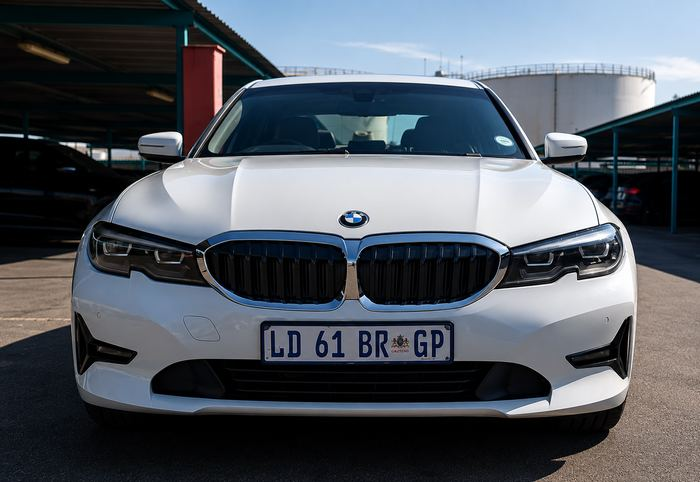
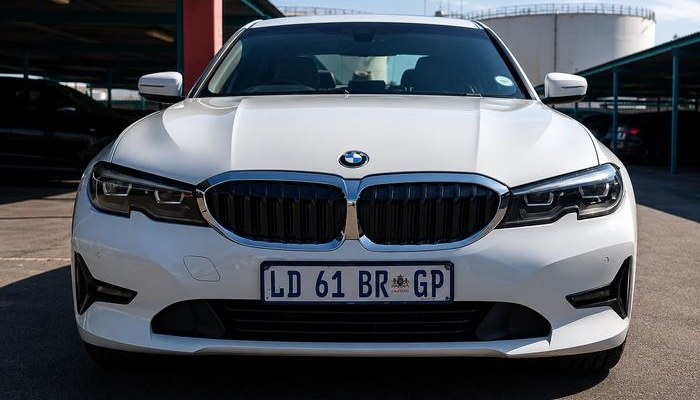
Tighten fleet photo crops, fix gallery content, swap Our Story image
Fleet thumbnails: re-cropped all four grid card photos so vehicles
fill the frame consistently (BMW 320d especially was showing more
driveway/mountain than car), bumped card photo height 180px->220px.
Also replaced an emoji CTA icon on this page that was missed during
the earlier site-wide icon cleanup.

Gallery content: removed BMW 320d's first image (kept the second,
per Adrian, despite a visible third-party watermark on it) and BMW
3 Series M Sport's third image. Grid thumbnail logic now derives
from each vehicle's actual first gallery image instead of hardcoded
filenames, so this can't silently break again if images are
reordered. "Saloon" -> "Sedan" in the BMW 320d/320i taglines,
homepage and fleet gallery both.

Homepage Our Story section now uses a real fleet photo (BMW 320i,
rear three-quarter shot) instead of the old generic photo.

diff --git a/intercoutra-site-v2/index.html b/intercoutra-site-v2/index.html
@@ -315,7 +315,7 @@
           <div><div class="num">3</div><div class="lbl">Major airports for transfers</div></div>
         </div>
       </div>
-      <div class="photo" style="background-image:url('images/about-photo-2.jpeg');height:340px;border-radius:10px;background-size:cover;background-position:center;"></div>
+      <div class="photo" style="background-image:url('images/fleet/bmw-320i-4.jpg');height:340px;border-radius:10px;background-size:cover;background-position:center;"></div>
     </div>
   </div>
 </section>
@@ -327,7 +327,7 @@
       <a href="fleet.html" class="link" style="color:var(--red);font-weight:600;font-size:14px;">View our fleet →</a>
     </div>
     <div class="fleet-grid">
-      <a href="fleet.html" class="fleet-card"><div class="photo" style="background-image:url('images/fleet/thumbs/bmw-320d-1.jpg');"></div><div class="body"><h3>BMW 320d</h3><p>3 Series Saloon · Executive Sedan</p></div></a>
+      <a href="fleet.html" class="fleet-card"><div class="photo" style="background-image:url('images/fleet/thumbs/bmw-320d-2.jpg');"></div><div class="body"><h3>BMW 320d</h3><p>3 Series Sedan · Executive Sedan</p></div></a>
       <a href="fleet.html" class="fleet-card"><div class="photo" style="background-image:url('images/fleet/thumbs/vito-1.jpg');"></div><div class="body"><h3>Mercedes-Benz Vito Tourer</h3><p>Premium Passenger Shuttle</p></div></a>
       <a href="fleet.html" class="fleet-card"><div class="photo" style="background-image:url('images/fleet/thumbs/bmw-msport-1.jpg');"></div><div class="body"><h3>BMW 3 Series M Sport</h3><p>Executive Sedan · M Sport Package</p></div></a>
     </div>

diff --git a/intercoutra-site-v2/js/fleet-gallery.js b/intercoutra-site-v2/js/fleet-gallery.js
@@ -7,9 +7,8 @@ const FLEET_VEHICLES = [
   {
     id: "bmw-320d",
     name: "BMW 320d",
-    tagline: "3 Series Saloon · Executive Sedan",
+    tagline: "3 Series Sedan · Executive Sedan",
     images: [
-      "images/fleet/bmw-320d-1.jpg",
       "images/fleet/bmw-320d-2.jpg",
     ],
   },
@@ -29,14 +28,13 @@ const FLEET_VEHICLES = [
     images: [
       "images/fleet/bmw-msport-1.jpg",
       "images/fleet/bmw-msport-2.jpg",
-      "images/fleet/bmw-msport-3.jpg",
       "images/fleet/bmw-msport-4.jpg",
     ],
   },
   {
     id: "bmw-320i",
     name: "BMW 320i",
-    tagline: "3 Series Saloon · Executive Sedan",
+    tagline: "3 Series Sedan · Executive Sedan",
     images: [
       "images/fleet/bmw-320i-1.jpg",
       "images/fleet/bmw-320i-2.jpg",
@@ -58,7 +56,7 @@ function renderFleetGalleryGrid() {
 
   grid.innerHTML = FLEET_VEHICLES.map((v) => `
     <div class="fleet-card gallery-card" onclick="openLightbox('${v.id}', 0)">
-      <div class="photo" style="background-image:url('images/fleet/thumbs/${v.id === 'bmw-320d' ? 'bmw-320d-1' : v.id === 'vito' ? 'vito-1' : v.id === 'bmw-msport' ? 'bmw-msport-1' : 'bmw-320i-1'}.jpg');">
+      <div class="photo" style="background-image:url('images/fleet/thumbs/${v.images[0].split('/').pop()}');">
         <div class="photo-count"><svg width="12" height="12" viewBox="0 0 24 24" fill="none" stroke="currentColor" stroke-width="2" stroke-linecap="round" stroke-linejoin="round"><rect x="3" y="3" width="15" height="15" rx="2"/><path d="M8 21h10a2 2 0 0 0 2-2V9"/></svg> ${v.images.length}</div>
         <div class="view-overlay">View Gallery →</div>
       </div>

diff --git a/intercoutra-site-v2/fleet.html b/intercoutra-site-v2/fleet.html
@@ -78,7 +78,7 @@
   <div class="container">
     <div class="cta-inner">
       <div class="left">
-        <div class="cta-icon">🚐</div>
+        <div class="cta-icon"><svg width="20" height="20" viewBox="0 0 24 24" fill="none" stroke="currentColor" stroke-width="2" stroke-linecap="round" stroke-linejoin="round"><rect x="3" y="6" width="18" height="11" rx="2"/><path d="M3 13h18"/><circle cx="7.5" cy="19" r="1.5"/><circle cx="16.5" cy="19" r="1.5"/></svg></div>
         <div><h3>Need a vehicle for your group?</h3><p>Tell us your headcount and route — we'll match the right fleet vehicle.</p></div>
       </div>
       <a href="contact.html" class="btn btn-white">Get a Quote →</a>

diff --git a/intercoutra-site-v2/css/style.css b/intercoutra-site-v2/css/style.css
@@ -224,7 +224,7 @@ nav.main-nav a:hover, nav.main-nav a.active{opacity:1;border-bottom:2px solid va
 .fleet-card{background:var(--white);border:1px solid var(--line-dark);border-radius:10px;overflow:hidden;}
 a.fleet-card{display:block;color:inherit;text-decoration:none;}
 a.fleet-card:hover{box-shadow:0 20px 40px -24px rgba(0,0,0,.3);}
-.fleet-card .photo{height:180px;background-size:cover;background-position:center;}
+.fleet-card .photo{height:220px;background-size:cover;background-position:center;}
 .fleet-card .body{padding:18px 20px;}
 .fleet-card h3{font-size:16px;margin-bottom:4px;}
 .fleet-card p{font-size:12.5px;color:var(--muted);}
